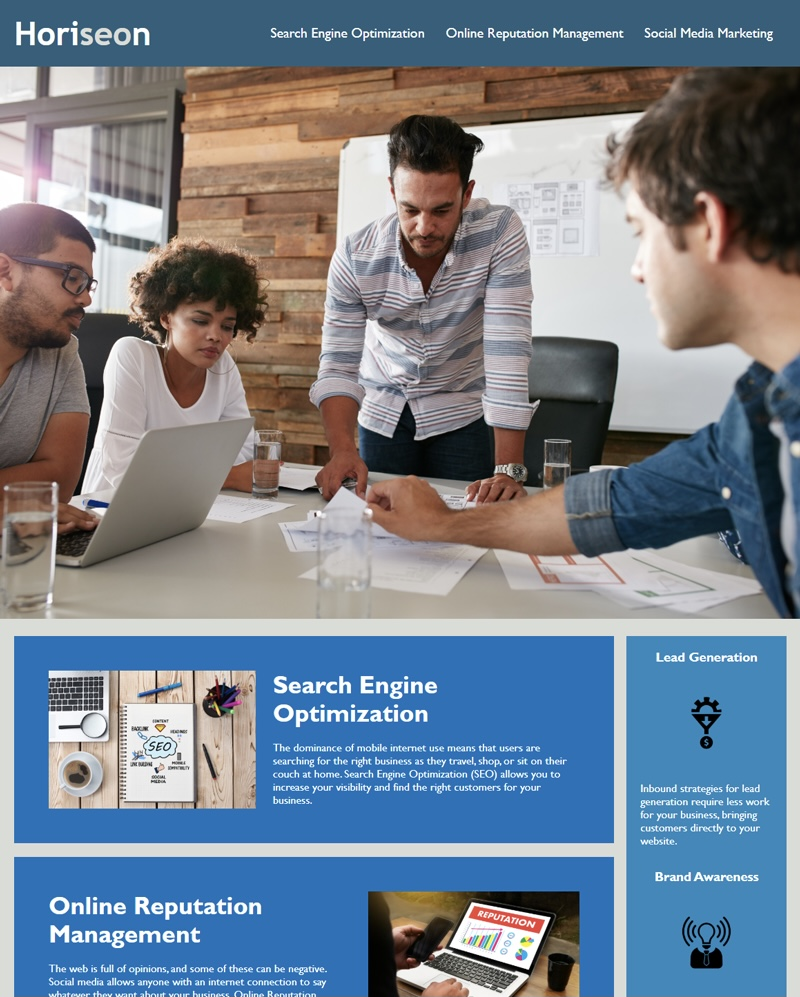
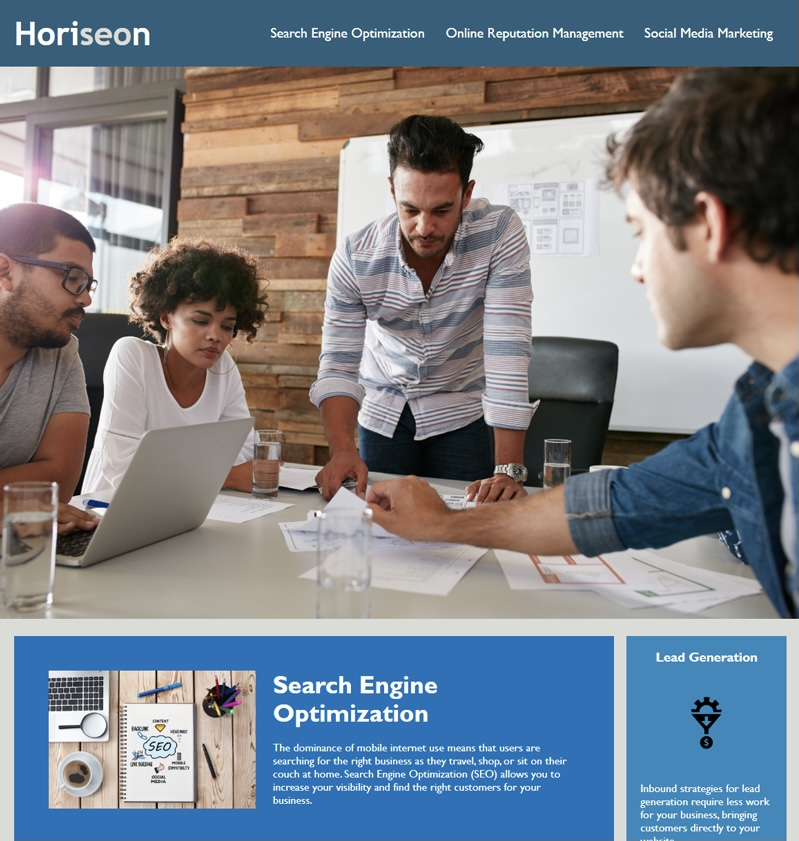
added styling to port and contact info

diff --git a/assets/style.css b/assets/style.css
@@ -1,6 +1,6 @@
 :root {
---primary-color: #9eb3f8;
---secondary-color: #747474;
+--primary-color: #a2f1f7;
+--secondary-color: #00abee;
 --tertiary-color: #8C857C;
 }
 
@@ -8,21 +8,21 @@
     margin: 0;
     padding: 0;
     box-sizing: border-box;
-}
+ }
 
-body{
-  background-color: rgb(206, 249, 255);
-}
+  body{
+   background-color: rgb(206, 249, 255);
+ }
 
-/* header/ navbar styling*/
+ /* header/ navbar styling*/
  .header{
-  display: flex;
-  justify-content: center;
-  align-items: center;
-  position: sticky;
-  top: 0;
-  background-color: var(--primary-color);
-  opacity: 75%;
+   display: flex;
+   justify-content: space-between;
+   align-items: center;
+   position: sticky;
+   top: 0;
+   background-color: var(--secondary-color);
+   opacity: 100%;
  }
 
  .header ul {
@@ -45,9 +45,9 @@ body{
  }
 
  .header ul li a:hover{
-  background-color: azure;
-  color: black;
-  box-shadow: 0 0 10px white;
+   background-color: azure;
+   color: black;
+   box-shadow: 0 0 10px white;
  }
 
  /*Hero styling*/
@@ -63,22 +63,36 @@ body{
    right: 0;
    background: url(../assets/images/IMG_6920.jpg) no-repeat center center/cover;
    display: flex;
-   height: 1000px;
+   height: 1300px;
    width:100%;
    z-index: -1;
  }
   
  .main{
    display: flex;
-   flex-direction: column;
+   flex-direction: row;
    align-items: center;
    position: absolute;
    top: 5%;
    left: 2%;
    color: var(--primary-color);
+   font-size: 3rem;
+   font-family:'Franklin Gothic Medium', 'Arial Narrow', Arial, sans-serif;
+   -webkit-text-stroke: 2px var(--secondary-color);
+ }
+
+ /*Heading of sections styling*/
+ .headings { 
+   display: flex;
+   flex-direction: column;
+   align-items: center;
+   justify-content: center;
+   position: relative;
+   color: var(--primary-color);
    font-size: 2rem;
-   font-family:'Segoe UI', Tahoma, Verdana, sans-serif;
-   -webkit-text-stroke: 2px black;
+   font-family:'Franklin Gothic Medium', 'Arial Narrow', Arial, sans-serif;
+   -webkit-text-stroke: 2px var(--secondary-color);
+   padding: 10px 0 10px 0;
  }
 
   /* Bio/ about me styling*/
@@ -89,41 +103,34 @@ body{
     flex-wrap: wrap;
     box-sizing: border-box;
     padding: 10px;
-    margin-bottom: 50px;
+    justify-content: center;
+    align-items: center;
   }
 
   #pic {
     display: flex;
+    justify-content: center;
+    align-items: center;
   }
 
   #pic img{
-    width: 575px;
-    height: 425px;
-    border: 2px solid var(--primary-color);
-    border-radius: 12px;
-  }
-
-  .headings { 
     display: flex;
-    flex-direction: row;
+    flex-wrap: wrap;
+    width: auto;
+    height: 325px;
+    border: 3px solid black;
+    border-radius: 12px;
+    justify-content: center;
     align-items: center;
-    position: relative;
-    left: 2%;
-    top: 10%;
-    color: var(--primary-color);
-    font-size: 2rem;
-    font-family:'Segoe UI', Tahoma, Verdana, sans-serif;
-    -webkit-text-stroke: 2px black;
   }
 
   .intro {
     display: flex;
-    flex-direction: column;
     flex-wrap: wrap;
     text-align: justify;
-    padding: 10px;
-    margin-top: 12px;
-
+    padding: 15px;
+    justify-content: center;
+    align-items: center;
   }
 
   .intro h2{
@@ -147,13 +154,13 @@ body{
  }
 
  .winendine{
-  display: flex;
-  flex-direction: column;
-  justify-content: center;
-  align-items: center;
-  border:3px solid black;
-  border-radius: 12px;
-  margin: 10px;
+   display: flex;
+   flex-direction: column;
+   justify-content: center;
+   align-items: center;
+   border:3px solid black;
+   border-radius: 12px;
+   margin: 10px;
  }
 
  .winendine img{
@@ -171,7 +178,7 @@ body{
    color: var(--primary-color);
    font-size: 2rem;
    font-family:'Segoe UI', Tahoma, Verdana, sans-serif;
-   -webkit-text-stroke: 2px black;
+   -webkit-text-stroke: 2px var(--secondary-color);
  }
 
  .horiseon{
@@ -198,7 +205,7 @@ body{
     color: var(--primary-color);
     font-size: 2rem;
     font-family:'Segoe UI', Tahoma, Verdana, sans-serif;
-    -webkit-text-stroke: 2px black;
+    -webkit-text-stroke: 2px var(--secondary-color);
   }
  
   .password-generator{
@@ -214,27 +221,34 @@ body{
   }
  
   .password-generator img{
-     display: flex;
-     flex-direction: column;
-     max-width: 100%;
-     border-radius: 8px 8px 0px 0px;
+    display: flex;
+    flex-direction: column;
+    max-width: 100%;
+    border-radius: 8px 8px 0px 0px;
   }
  
   .password-generator h2{
-     display: flex;
-     justify-content: center;
-     color: var(--primary-color);
-     font-size: 2rem;
-     font-family:'Segoe UI', Tahoma, Verdana, sans-serif;
-     -webkit-text-stroke: 2px black;
+    display: flex;
+    justify-content: center;
+    color: var(--primary-color);
+    font-size: 2rem;
+    font-family:'Segoe UI', Tahoma, Verdana, sans-serif;
+    -webkit-text-stroke: 2px var(--secondary-color);
   }
 
   .lower-tabs{
-     display: flex;
-     flex-direction: row;
-     justify-content: space-between;
-     margin: 5px;
+    display: flex;
+    flex-direction: row;
+    justify-content: space-between;
+    margin: 5px;
   }
-   
+
+  /* Contact info styling */
+
+  .contact-info{
+    display: flex;
+    flex-direction: row;
+    justify-content: space-evenly;
+  }
    
   

diff --git a/index.html b/index.html
@@ -10,10 +10,15 @@
     <body>
    
      <!--Header/ navigation-->
-        <nav class="header">
+     <header class="header"">
+     <div>
+        <h1 class="main">LUKE STURGILL</h1>
+        </div>
+        <div>
+        <nav >
         <ul>
              <li>
-                <a href="home">Home</a>
+                <a href="#home">Home</a>
              </li>
              <li>
                  <a href="#bio">About Me</a>
@@ -26,12 +31,11 @@
              </li>
          </ul>
         </nav>
-    
+    </div>
+    </header>
      <!--Home/Hero section -->
         <section id="home">
-            <div class="main">
-                <h1>LUKE STURGILL</h1>
-                </div>
+           
         </section>
 
 
@@ -41,19 +45,23 @@
                 <h1>ABOUT ME</h1>
             </div>
             <div  id="pic">
+                <div>
                 <img src="assets/images/IMG_5916.JPG" alt="photo of luke sturgill">
+                </div>
                 <div class="intro">
                     <h2>Luke Sturgill</h2>
-                    <p> I'm currently enrolled in a web development bootcamp through the University of Utah. Coding and web development is something I've long had interest in learning about. I'm excited for the oppertunity to learn new skills and push myself into a new career.
+                    <p> I'm currently enrolled in a web development bootcamp through the University of Utah. Coding and web development is something I've long had interest in learning about. I'm excited for the oppertunity to learn new skills and push myself into a new career. Below you will find some of the projects I've worked on so far throughout the course.
                     </p>
                 </div>
-                </div>
             </div>
+        </div>
         </section>
 
      <!--Portfolio section-->
         <section id="portfolio">
-        <h1 class="headings">PORTFOLIO<h1>
+            <div class="headings">
+            <h1>PORTFOLIO</h1>
+        </div>
         <div class="projects">
             <div class="winendine">
                 <article>
@@ -88,18 +96,18 @@
                         <h2>Password Generator</h2>
                     </div>
                 </article>
-        
             </div>
         </div>
         </section>
 
 
-     <!-- Contact info 
-        <section id="contact-me" class="contact-info">
-        <div>
-            <h2>Contact Info</h2>
+     <!-- Contact info -->
+        <section id="contact-me">
+        <h1 class="headings">Contact Info</h1>  
+        <div class="contact-info">
             <div>
                 <a href="mailto:lukesturgill@gmail.com">Email: lukesturgill@gmail.com</a>
+                </div>
                 <div>
                     <p>
                         Phone Number: 586-382-4400
@@ -108,7 +116,6 @@
             </div>
         </div>
         </section>
-        </div>-->
        
     </body>
 </html>
